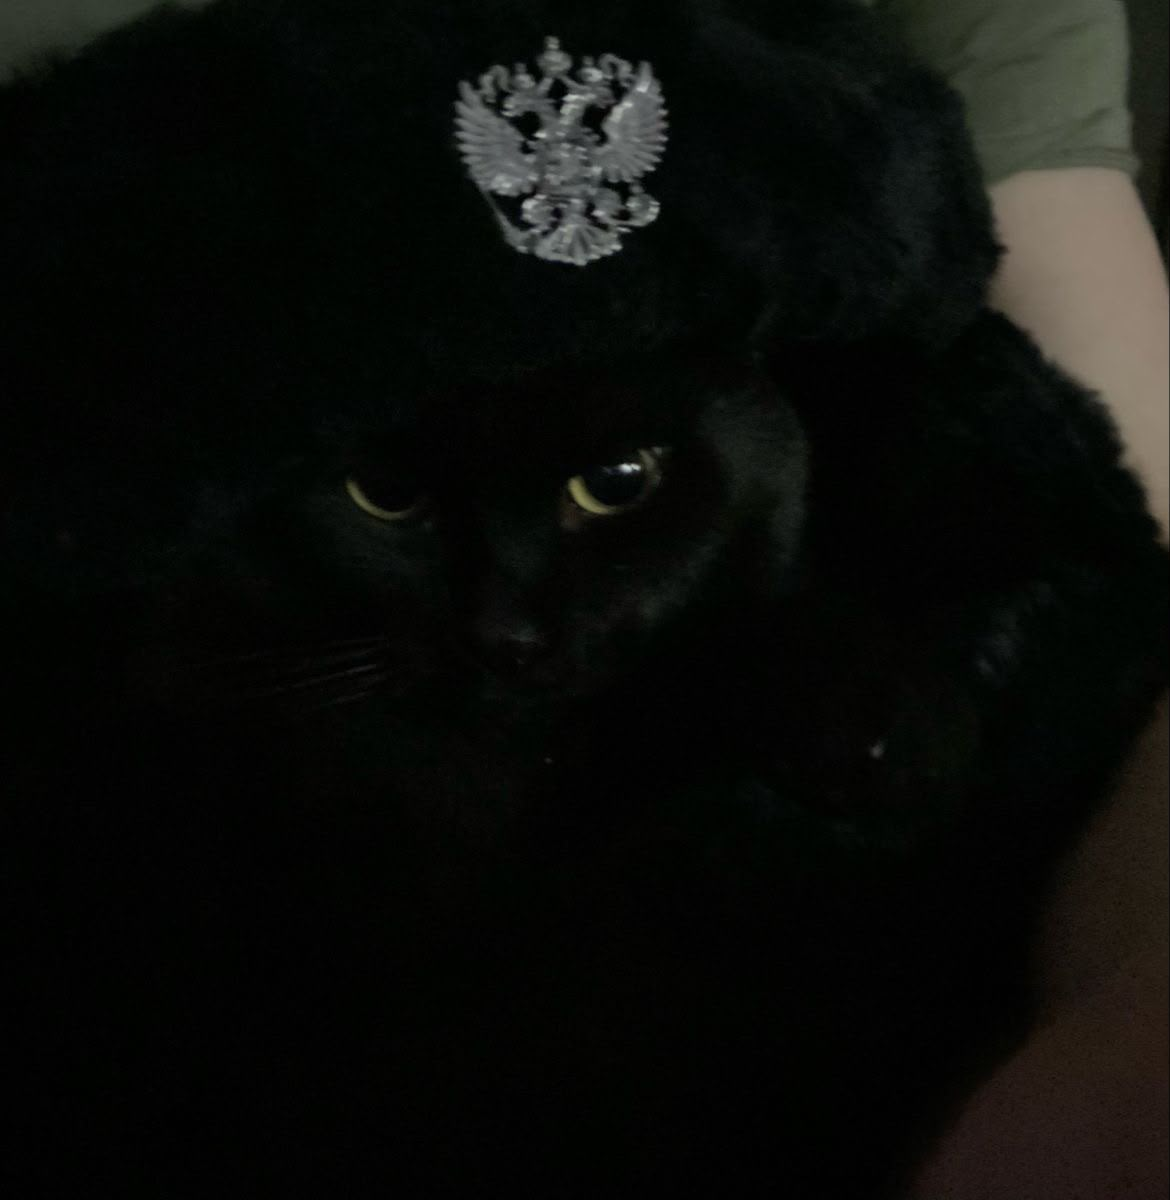
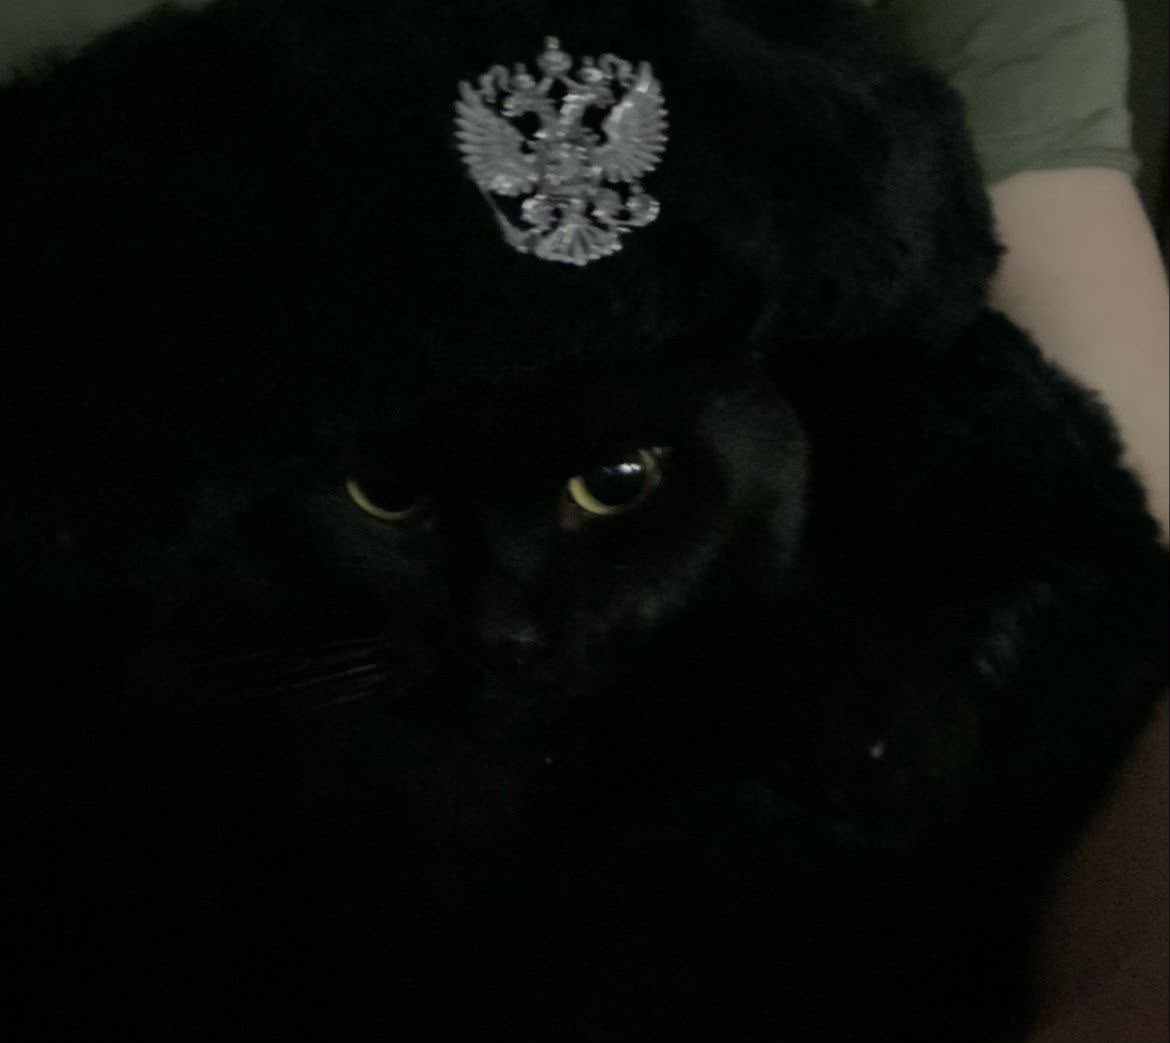
U

diff --git a/plugins/menu/menu.js b/plugins/menu/menu.js
@@ -26,16 +26,16 @@ const handler = async (message, { conn, usedPrefix }) => {
             caption: menuText,
             footer: footerText,
             buttons: [
-                { buttonId: `${usedPrefix}menufunzioni`, buttonText: { displayText: ' ✨  𝐹𝓊𝓃𝓏𝒾𝑜𝓃𝒾' }, type: 1 },
-                { buttonId: `${usedPrefix}menugruppo`, buttonText: { displayText: ' 👥  𝒢𝓇𝓊𝓅𝓅𝑜' }, type: 1 },
-                { buttonId: `${usedPrefix}menuadmin`, buttonText: { displayText: ' 🛡  𝒜𝒹𝓂𝒾𝓃/𝑀𝑜𝒹' }, type: 1 },
-                { buttonId: `${usedPrefix}menuowner`, buttonText: { displayText: ' 👑  𝒪𝓌𝓃𝑒𝓇' }, type: 1 }
+                { buttonId: `${usedPrefix}menufunzioni`, buttonText: { displayText: ' ✨  Funzioni' }, type: 1 },
+                { buttonId: `${usedPrefix}menugruppo`, buttonText: { displayText: ' 👥  Gruppo' }, type: 1 },
+                { buttonId: `${usedPrefix}menuadmin`, buttonText: { displayText: ' 🛡  Admin/Mod' }, type: 1 },
+                { buttonId: `${usedPrefix}menuowner`, buttonText: { displayText: ' 👑  Owner' }, type: 1 }
             ],
             viewOnce: true,
             headerType: 4
         }, { quoted: message })
     } catch (e) {
-        console.error('𝐸𝓇𝓇𝑜𝓇𝑒 𝒾𝓃𝓋𝒾𝑜 𝓂𝑒𝓃𝓊:', e.message)
+        console.error('Errore invio menu:', e.message)
         await message.reply(menuText)
     }
 }
@@ -47,7 +47,7 @@ handler.command = /^(menu|menup|home|start)$/i
 export default handler
 
 function generateMenuText(prefix, userId, groupId, uptime) {
-    const botName = global.db.data.nomedelbot || '₭𐌀Ɽ₥𐌀-𐌱𐍉𐍄'
+    const botName = global.db.data.nomedelbot || 'Karma-bot'
 
     const createSection = (title, commands) => {
         const commandLines = commands.trim().split('\n').map(c => `│❍ ${c.trim()}`).join('\n')
@@ -57,7 +57,7 @@ ${commandLines}
     }
 
     const sections = [
-        createSection(' ⚡  𝒜𝒸𝒸𝑒𝓈𝓈𝑜 𝓇𝒶𝓅𝒾𝒹𝑜', `
+        createSection(' ⚡  Accesso rapido', `
 💤 *${prefix}afk*
 🚀 *${prefix}ping*
 🤖 *${prefix}ia*
@@ -70,7 +70,7 @@ ${commandLines}
     ]
 
     return `·˚*୨୧꒰*˚· *${botName}* ·˚*꒱୨୧*˚·
-𖤓 *𝒯𝑒𝓂𝓅𝑜 𝒶𝓉𝓉𝒾𝓋𝑜:* ${clockString(uptime)}
+𖤓 *Tempo attivo:* ${clockString(uptime)}
 
 ${sections.join('\n\n')}`.trim()
 }

diff --git a/plugins/info/info-ping.js b/plugins/info/info-ping.js
@@ -47,10 +47,9 @@ let handler = async (m, { conn }) => {
 │ Nome: ${nomeDelBot}
 │ Ping: ${ping} ms
 │ Uptime: ${clockString(uptime)}
-│ CPU: ${cpuModel}
 │ Speed: ${cpuSpeed} MHz
 │ RAM: ${format(totalmem() - freemem())} / ${format(totalmem())}
-╰─────────────────────`
+╰───────────`
 
     await conn.sendMessage(m.chat, { text: caption }, { quoted: m })
 }
